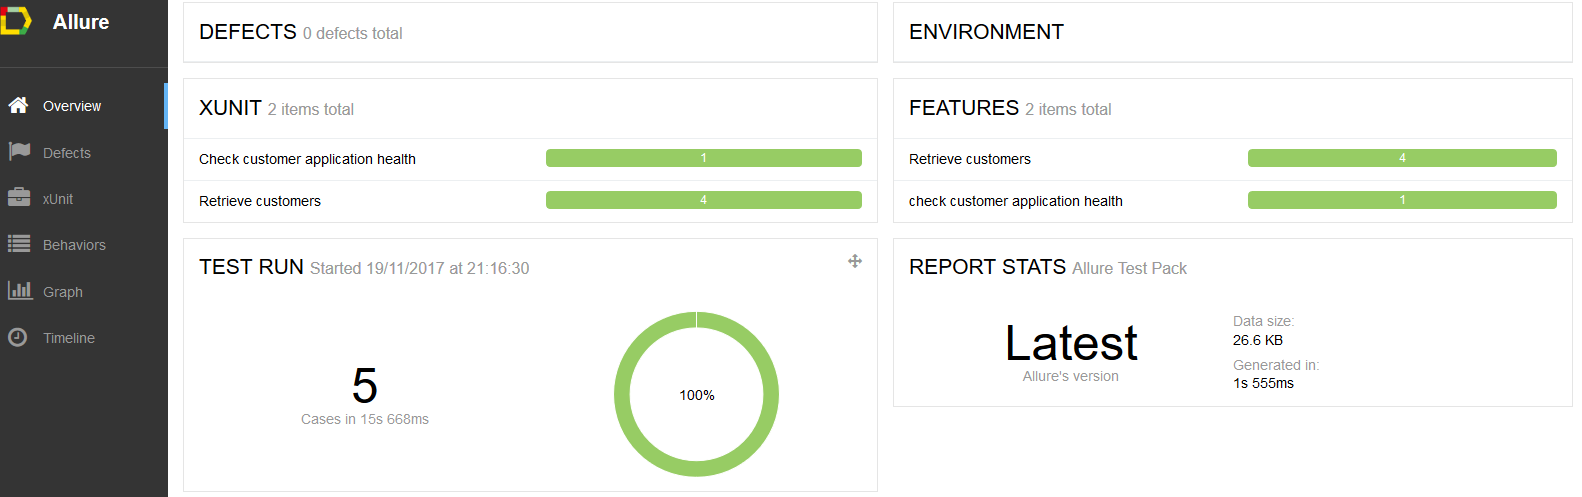
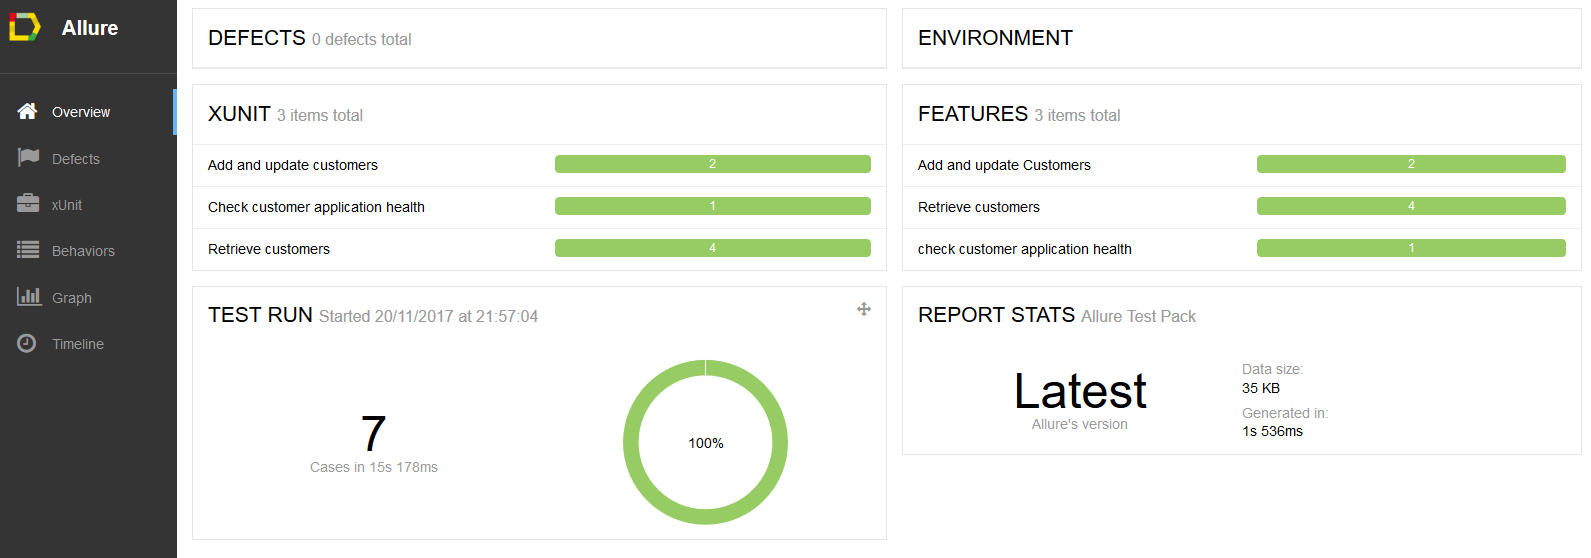
post and put bdd added

diff --git a/customer-bdd/src/test/java/com/nathan/customer/resource/NewCustomerStepsDef.java b/customer-bdd/src/test/java/com/nathan/customer/resource/NewCustomerStepsDef.java
@@ -1,0 +1,65 @@
+package com.nathan.customer.resource;
+
+import static io.restassured.RestAssured.given;
+
+import cucumber.api.java.en.Then;
+import cucumber.api.java.en.When;
+import io.restassured.http.ContentType;
+import io.restassured.response.Response;
+import io.restassured.specification.RequestSpecification;
+
+public class NewCustomerStepsDef {
+
+	class CustomerRequest {
+
+		private Long customerId;
+		private String fistName;
+		private String lastName;
+
+		public CustomerRequest(Long customerId, String fistName, String lastName) {
+			super();
+			this.customerId = customerId;
+			this.fistName = fistName;
+			this.lastName = lastName;
+		}
+	}
+
+	public Response response;
+	public RequestSpecification request;
+	public String CUSTOMERS_URI = "http://localhost:8080/v1.0/customers";
+
+	@When("^client call /customers with POST method$")
+	public void client_call_customers_with_POST_method() throws Throwable {
+
+		CustomerRequest body = new CustomerRequest(null, "john", "doe");
+		request = given().accept(ContentType.JSON).contentType(ContentType.JSON).body(body);
+
+	}
+
+	@Then("^client should able to add new customer$")
+	public void client_should_able_to_add_new_customer() throws Throwable {
+		response = request.post(CUSTOMERS_URI);
+	}
+
+	@Then("^client should get success code (\\d+)$")
+	public void client_should_get_success_code(int statusCode) throws Throwable {
+		response.then().statusCode(statusCode);
+	}
+
+	@When("^client call /customers with PUT method$")
+	public void client_call_customers_with_PUT_method() throws Throwable {
+		CustomerRequest body = new CustomerRequest(1L, "john2", "doe");
+		request = given().accept(ContentType.JSON).contentType(ContentType.JSON).body(body);
+	}
+
+	@Then("^client should able to update customer$")
+	public void client_should_able_to_update_customer() throws Throwable {
+		response = request.put(CUSTOMERS_URI);
+	}
+
+	@Then("^client should get ok response (\\d+)$")
+	public void client_should_get_ok_response(int statusCode) throws Throwable {
+		response.then().statusCode(statusCode);
+	}
+
+}

diff --git a/customer-bdd/src/test/java/com/nathan/customer/resource/CustomerBaseDef.java b/customer-bdd/src/test/java/com/nathan/customer/resource/CustomerBaseDef.java
@@ -1,0 +1,18 @@
+package com.nathan.customer.resource;
+
+import cucumber.api.java.en.Then;
+import io.restassured.response.Response;
+import io.restassured.specification.RequestSpecification;
+
+public abstract class CustomerBaseDef {
+	
+	public Response response;
+	public RequestSpecification request;
+	public String CUSTOMERS_URI = "http://localhost:8080/v1.0/customers";
+	
+	@Then("^customer should get response code (\\d+)$")
+	public void customer_should_get_response_code(int statusCode) throws Throwable {
+		response.then().statusCode(statusCode);
+	}
+
+}

diff --git a/customer-bdd/src/test/java/com/nathan/customer/resource/CustomerNotFoundStepsDef.java b/customer-bdd/src/test/java/com/nathan/customer/resource/CustomerNotFoundStepsDef.java
@@ -1,7 +1,6 @@
 package com.nathan.customer.resource;
 
 import static io.restassured.RestAssured.given;
-import static org.hamcrest.Matchers.notNullValue;
 
 import org.slf4j.Logger;
 import org.slf4j.LoggerFactory;
@@ -21,7 +20,6 @@ public class CustomerNotFoundStepsDef {
 	private RequestSpecification request;
 	private String CUSTOMERS_URI = "http://localhost:8080/v1.0/customers";
 
-	
 
 	@Given("^client provide  customerId (\\d+)$")
 	public void client_provide_customerId(int customerId) throws Throwable {

diff --git a/customer-bdd/README.md b/customer-bdd/README.md
@@ -3,18 +3,11 @@
 Behavior Driver Test Suite for Customer Service.  
 
 
-------------------------------------------------------------
-
-
-
 ## Build Using 
 Cucumber 
 RestAssured
 Allure Report  
  
- 
-------------------------------------------------------------
-
 
 ## To Run
 ``` sh
